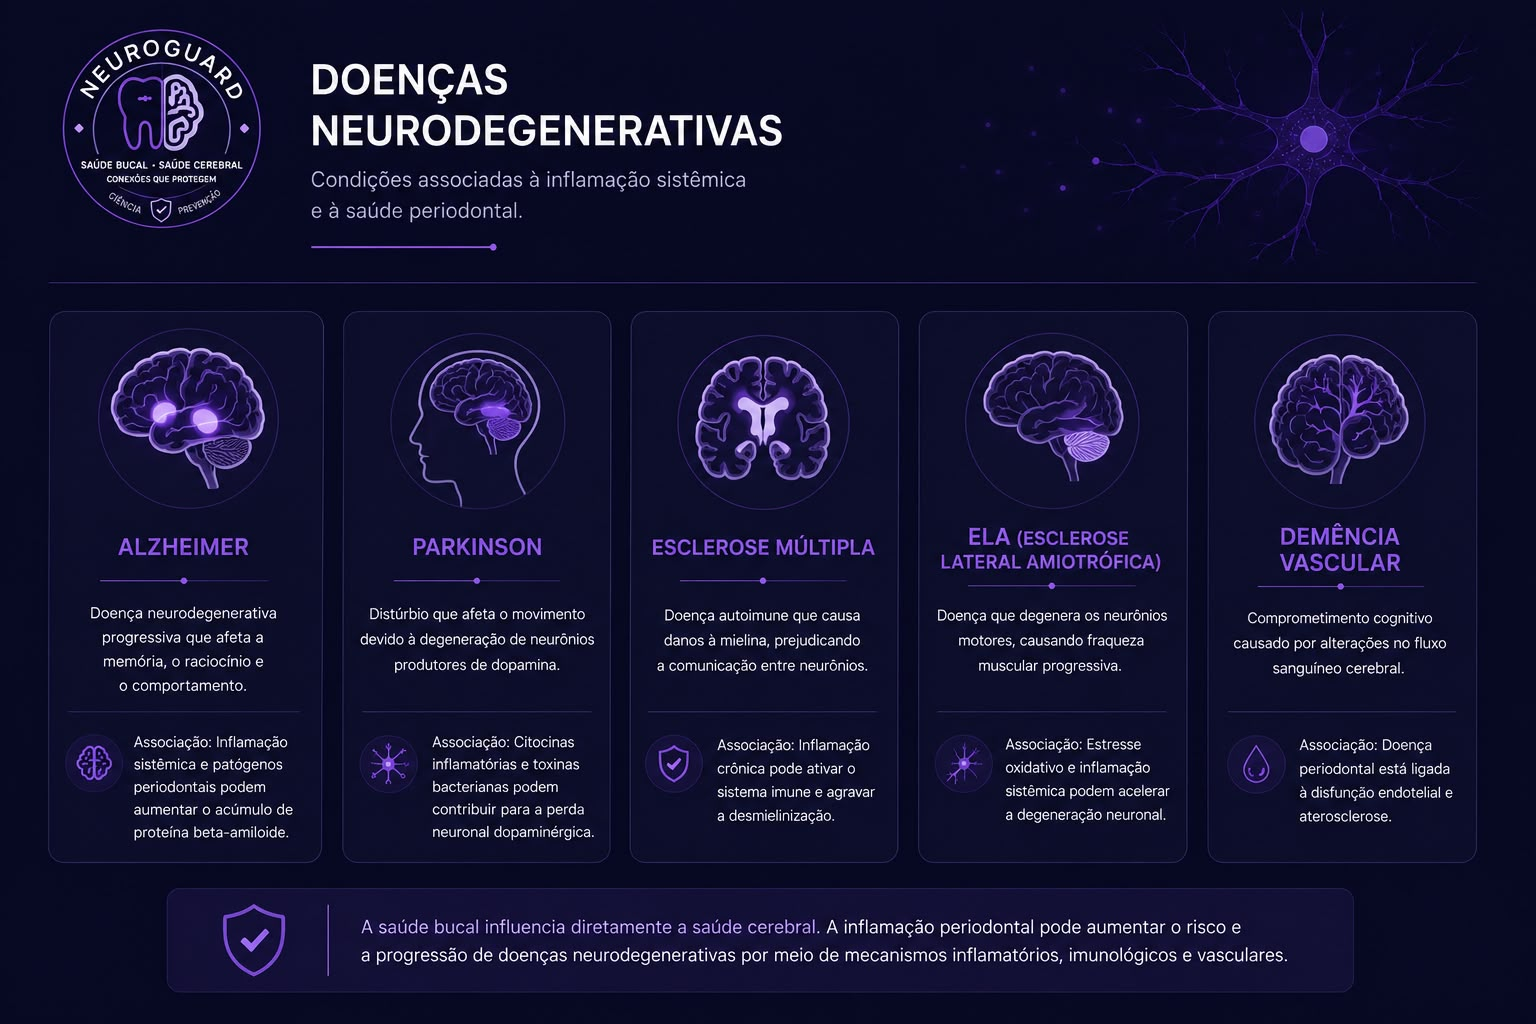
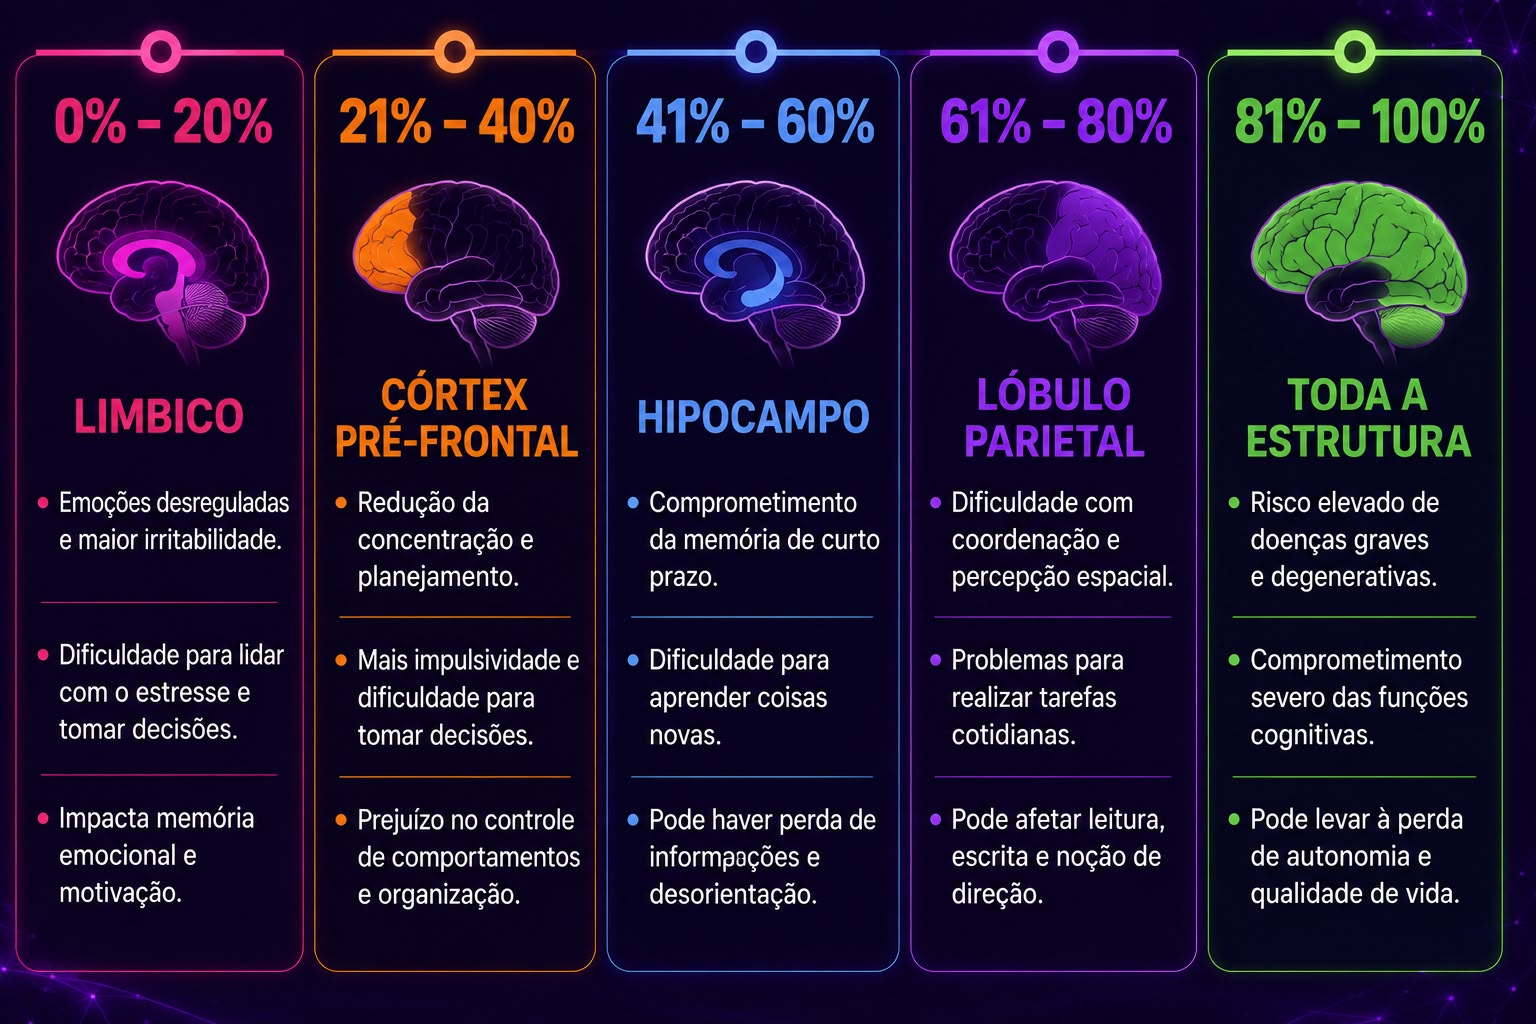
Versão quase final

diff --git a/neuroguard.py b/neuroguard.py
@@ -1,8 +1,15 @@
 from typing import Literal
 
 import streamlit as st
+import math
+import streamlit.components.v1 as components 
 
 st.set_page_config(page_title="NeuroGuard", page_icon="🧠", layout="centered")
+
+try:
+    st.image("assets/banner.png", use_container_width=True)
+except:
+    st.info("Adicione assets/banner.png")
 
 st.title("🧠 NEUROGUARD")
 st.caption("Sistema Inteligente para Análise de Biomarcadores")
@@ -91,6 +98,11 @@ indice_bucal = min(indice_bucal, 100)
 
 observacoes = st.text_area("Observações")
 
+st.write("")
+st.divider()
+
+st.subheader("Pesquisa de Biomarcadores")
+
 biomarcador = st.radio("Biomarcador", ["LDH", "ALP"])
 
 if biomarcador == "LDH":
@@ -141,11 +153,14 @@ if st.button("🔬 Analisar Amostra", use_container_width=True):
     st.write(f"**{biomarcador}:** {valor} U/L")
     st.write(f"**Interpretação:** {interpretacao}")
 
+    pato = int(indice_bucal)
+    periodontal = (((pato * 1.234) * 0.3) + (periodontal * 0.7))
+    neuro = (((pato * 1.234) * 0.3) + (neuro * 0.7))
     col1, col2 = st.columns(2)
     with col1:
         st.subheader("Índice de Doenças Periodontais")
         st.progress(periodontal/100)
-        st.metric("Probabilidade", f"{periodontal}%")
+        st.metric("Probabilidade", f"{periodontal:.0f}%")
         try:
             st.image("assets/boca.png", use_container_width=True)
         except:
@@ -154,15 +169,110 @@ if st.button("🔬 Analisar Amostra", use_container_width=True):
     with col2:
         st.subheader("Índice de Risco Neurodegenerativo")
         st.progress(neuro/100)
-        st.metric("Probabilidade", f"{neuro}%")
+        st.metric("Probabilidade", f"{neuro:.0f}%")
         try:
             st.image("assets/cabeca.png", use_container_width=True)
         except:
             st.info("Adicione assets/cabeca.png")
     st.divider()
-    st.subheader("Relatório de Hábitos Bucais")
 
-    st.subheader("Relatório de Hábitos Bucais")
+
+    rebec = ((81 - float(pato)) / 81) * 100
+    rebec = max(0, min(100, rebec))
+
+    raio = 90
+    circ = 2 * math.pi * raio
+    offset = circ * (1 - rebec / 100)
+
+    components.html(f"""
+    <!DOCTYPE html>
+    <html>
+    <head>
+    <style>
+
+    body {{
+        margin:0;
+        background:transparent;
+        display:flex;
+        justify-content:center;
+        align-items:center;
+        font-family:Arial, Helvetica, sans-serif;
+    }}
+
+    .container {{
+        text-align:center;
+    }}
+
+    h2 {{
+        color:white;
+        margin-bottom:20px;
+        font-size:32px;
+    }}
+
+    .porcentagem {{
+        font-size:46px;
+        font-weight:bold;
+        fill:white;
+    }}
+
+    .sub {{
+        font-size:18px;
+        fill:#B388FF;
+    }}
+
+    </style>
+    </head>
+
+    <body>
+
+    <div class="container">
+
+    <h2>Relatório de Hábitos Bucais</h2>
+
+    <svg width="240" height="240">
+
+        <!-- Fundo -->
+        <circle
+            cx="120"
+            cy="120"
+            r="{raio}"
+            stroke="#2D2D3A"
+            stroke-width="16"
+            fill="none"
+        />
+
+        <!-- Progresso -->
+        <circle
+            cx="120"
+            cy="120"
+            r="{raio}"
+            stroke="#8B5CF6"
+            stroke-width="16"
+            fill="none"
+            stroke-linecap="round"
+            stroke-dasharray="{circ}"
+            stroke-dashoffset="{offset}"
+            transform="rotate(-90 120 120)"
+            style="
+                transition:stroke-dashoffset .8s ease;
+            "
+        />
+
+        <text
+            x="120"
+            y="128"
+            text-anchor="middle"
+            class="porcentagem">
+            {rebec:.0f}%
+        </text>
+
+    </svg>
+
+    </div>
+
+    </body>
+    </html>
+    """, height=320)
 
     if indice_bucal <= 20:
 